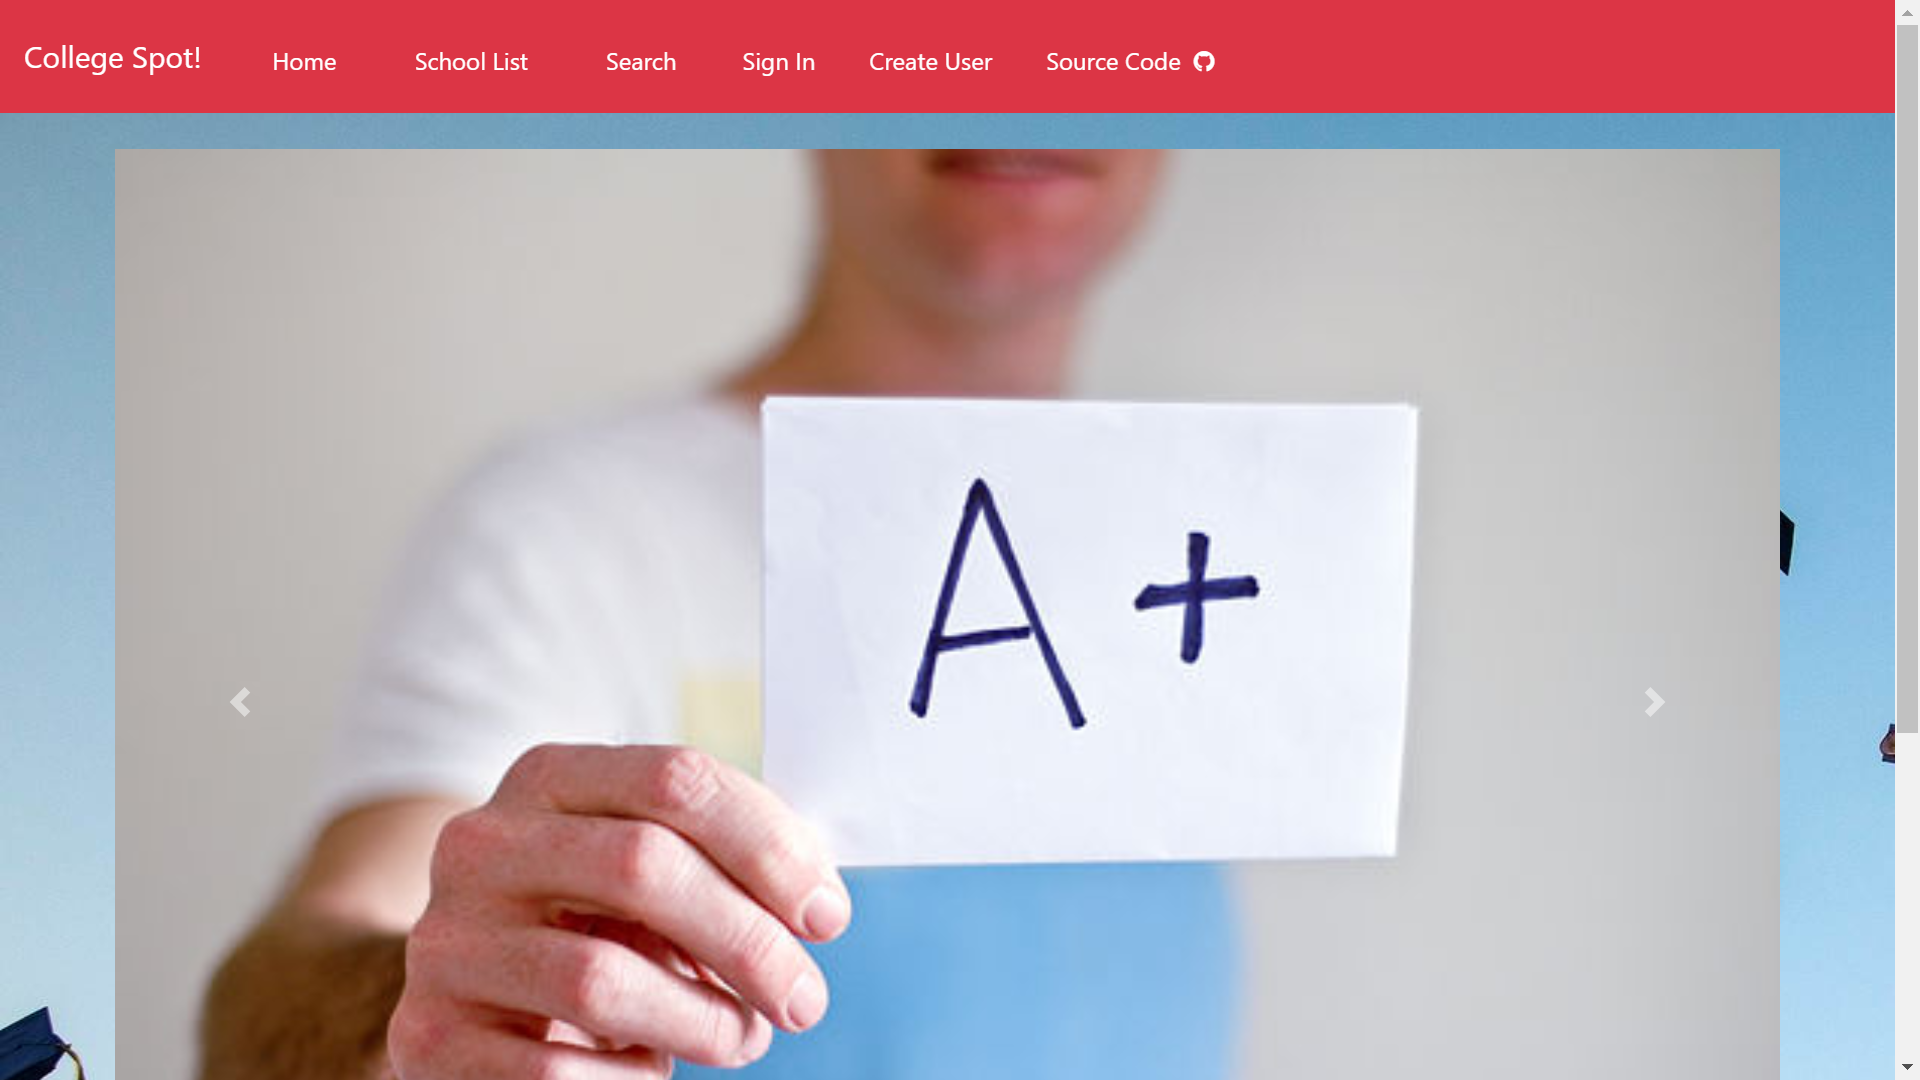
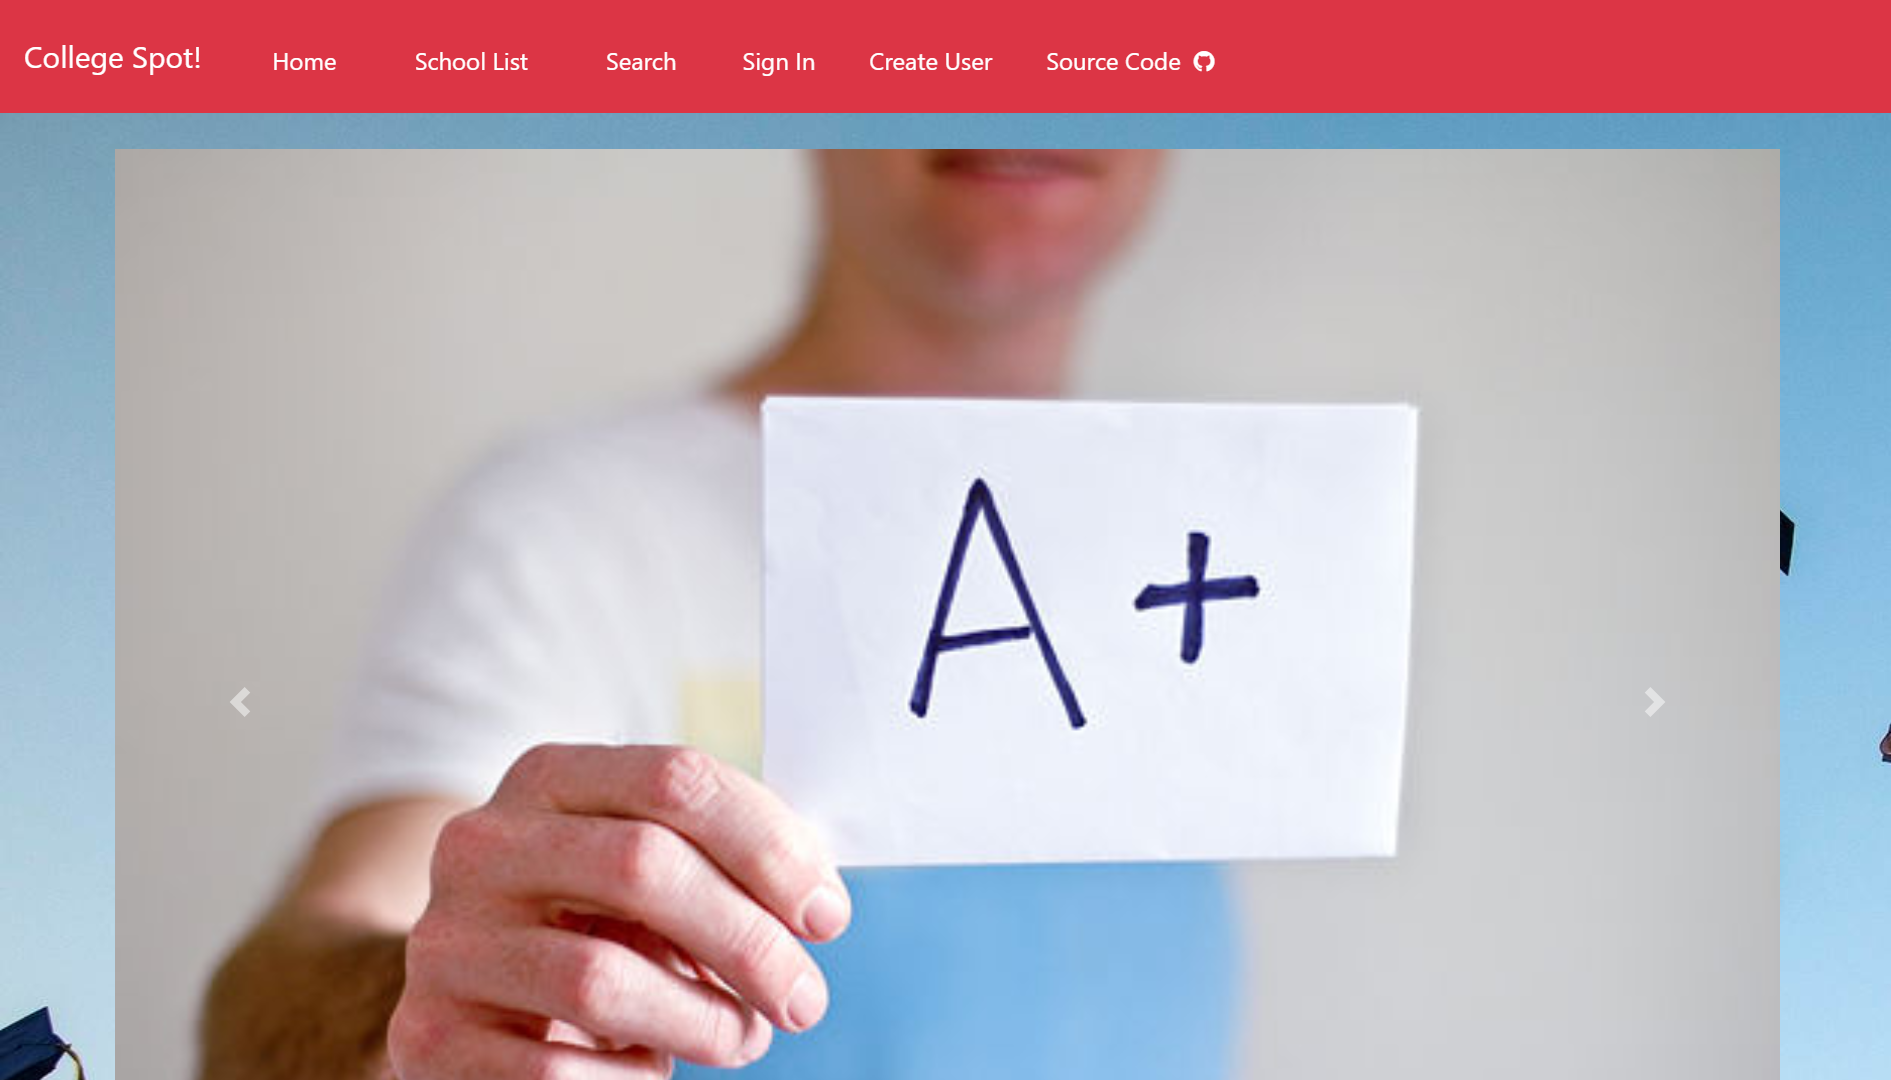
fixed mobile functionality, changed links

diff --git a/index.html b/index.html
@@ -29,7 +29,7 @@
                       <a class="nav-link" href="#">Projects</a>
                     </li>
                     <li class="nav-item">
-                      <a id="scroller" class="nav-link">Social Media</a>
+                      <a id="scroller" class="nav-link">Connect with me</a>
                     </li>
                   </ul>
                 </div>
@@ -52,7 +52,7 @@
   <span
      class="txt-rotate"
      data-period="3000"
-     data-rotate='[ "User Interfaces", "Web Applications", "Landing Pages", "Personal Websites" ]'></span>
+     data-rotate='[ "User Interfaces", "Web Apps", "Landing Pages", "Personal Websites" ]'></span>
 </div>
 <button id="buttoncon" type="button" class="btn btn-outline-light" data-toggle="modal" data-target="#exampleModal">Connect with Me!</button>
 

diff --git a/styles/style.css b/styles/style.css
@@ -2,6 +2,7 @@ html,body {
     height: 100%;
     font-family: 'Raleway', sans-serif;
     font-size: 18px;
+    padding: 0 !important;
   }
   
   #herofirst { 
@@ -120,9 +121,7 @@ However, delay the fade out process for 2.5 seconds */
 
 @media only screen and (max-width: 600px) { 
     html,body {
-        height: 100%;
         font-family: 'Raleway', sans-serif;
-        padding: 1em 2em;
         font-size: 18px;
         background: #222;
         color: #aaa
@@ -131,8 +130,8 @@ However, delay the fade out process for 2.5 seconds */
     #hero {
         background: #222 ;
         width: 100%;
-        height: 100%;
-        max-height: 100%;
+        height: 95%;
+        max-height: 95%;
         margin: 0;
         padding: 0;
         background-size:100% 100%;
